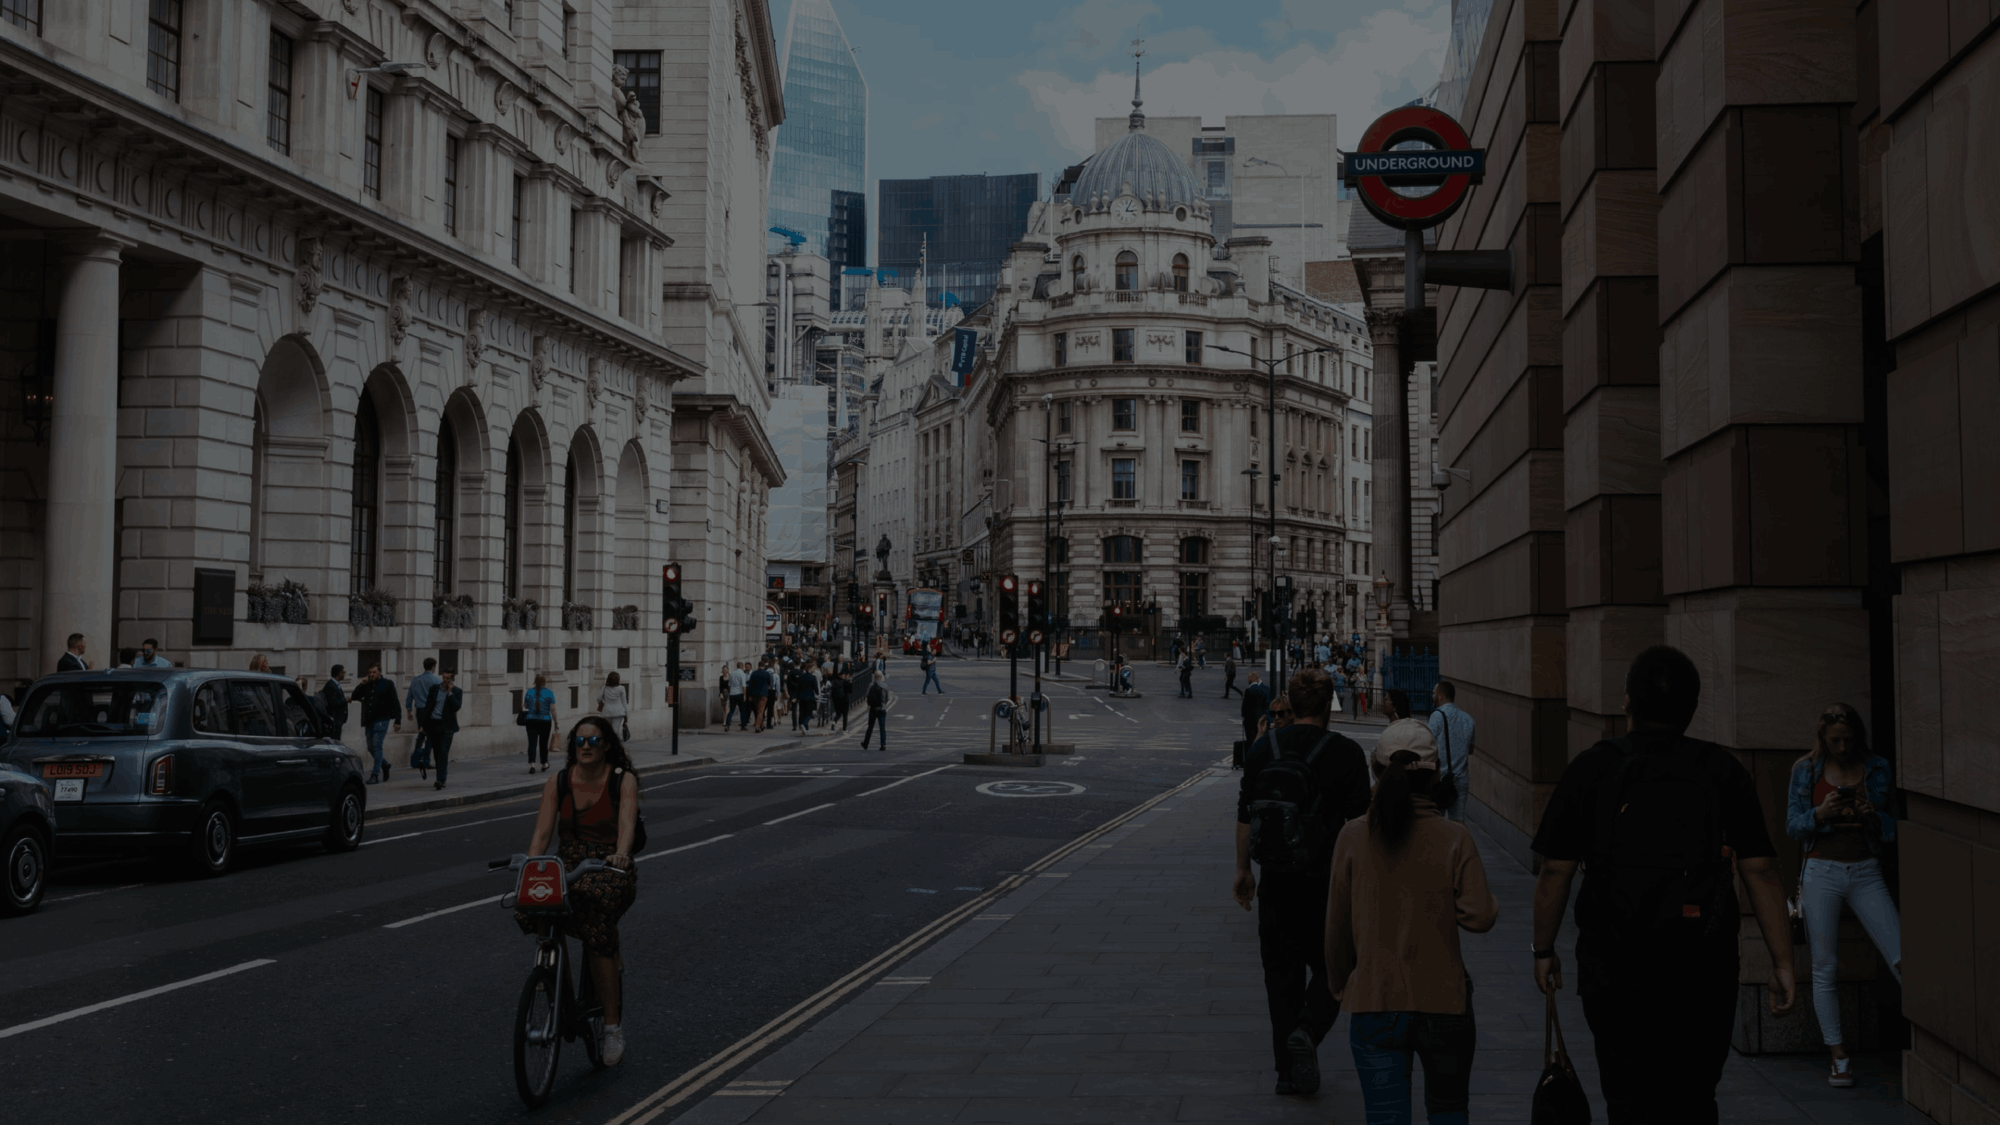
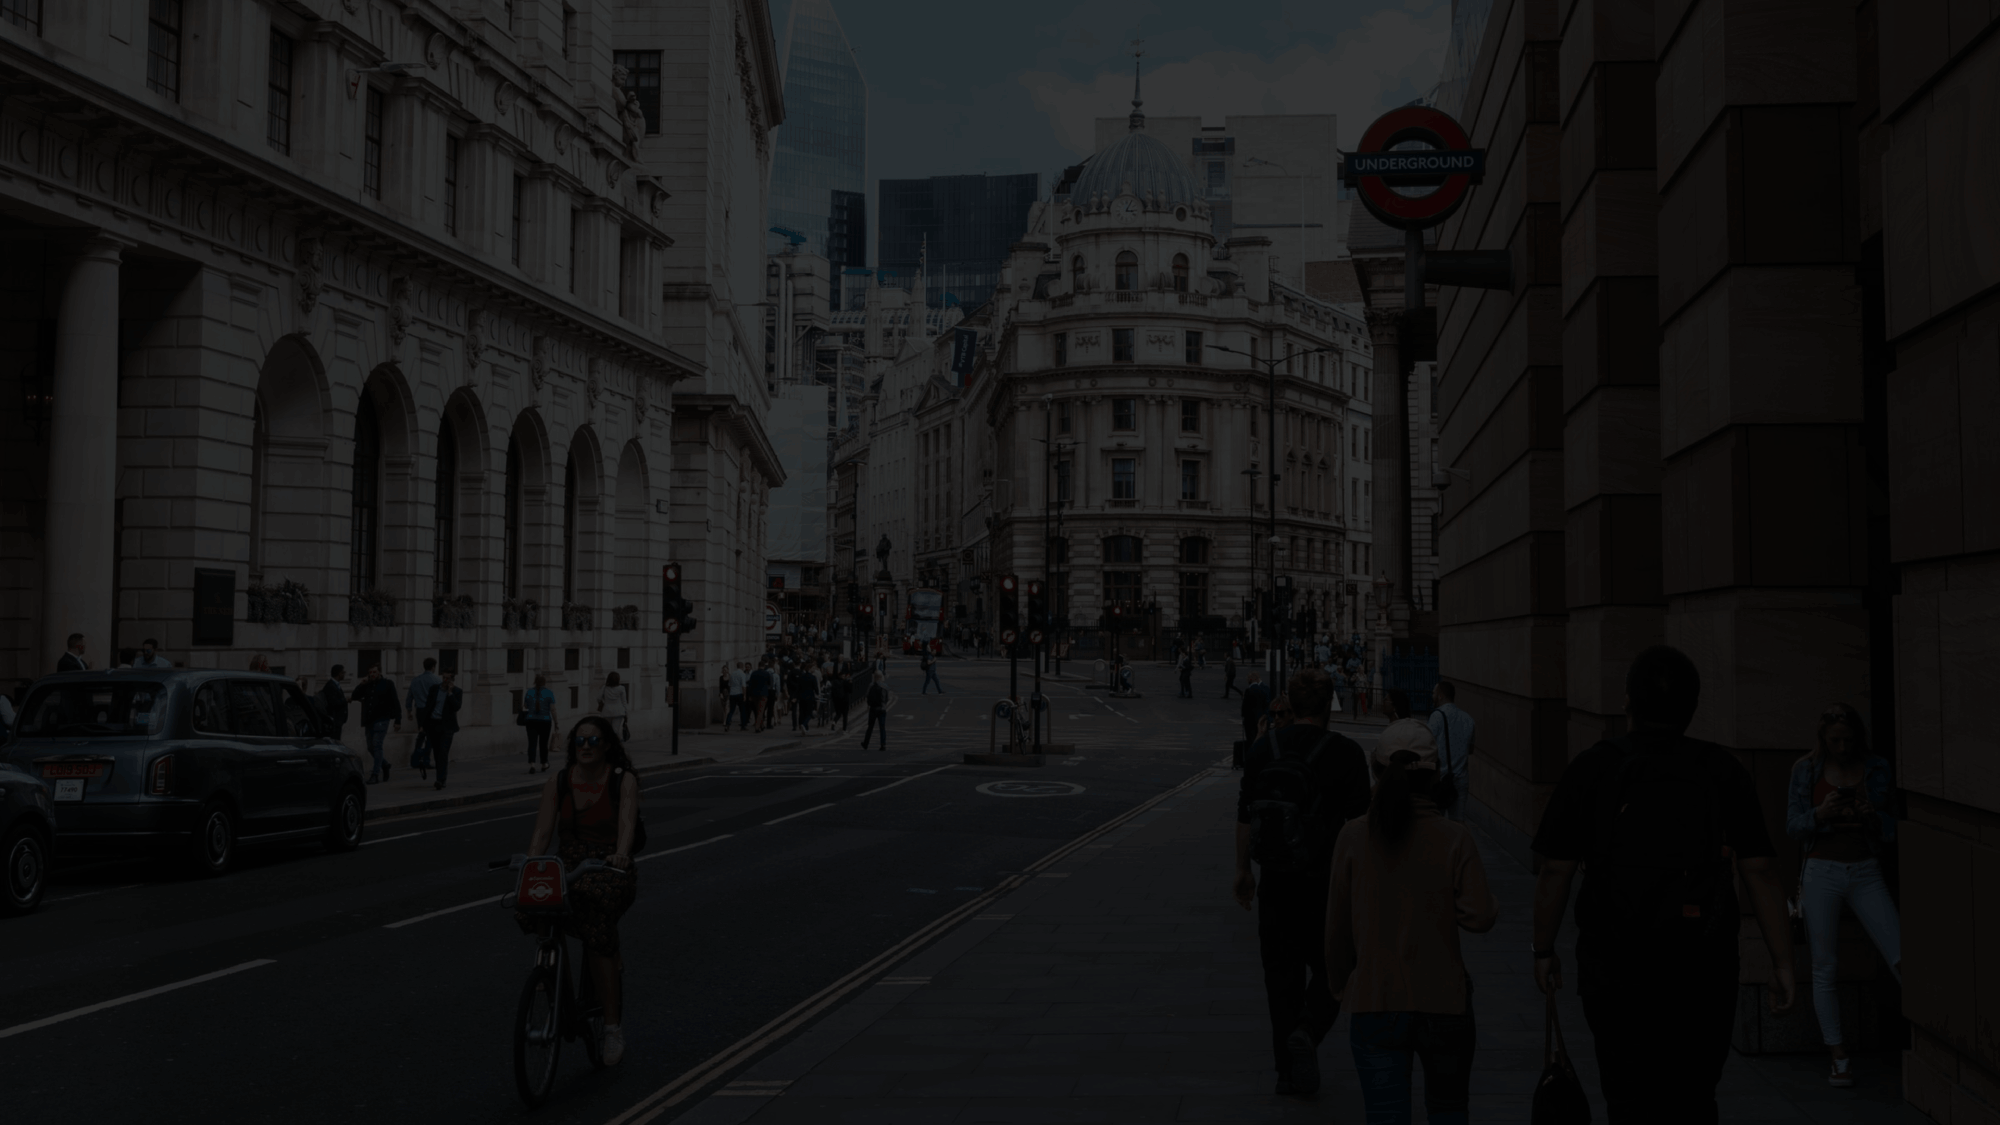
wip login

diff --git a/src/pages/Auth/Login/index.tsx b/src/pages/Auth/Login/index.tsx
@@ -1,0 +1,72 @@
+import { LockOutlined, Visibility, VisibilityOff } from '@material-ui/icons';
+import {
+  Button, IconButton, Input, InputAdornment, InputLabel, makeStyles, Typography,
+} from 'helpmycase-storybook/dist/components/External';
+import React, { useState } from 'react';
+import { NavLink } from 'react-router-dom';
+
+const useStyles = makeStyles({
+
+});
+
+const Login: React.FC = () => {
+  const classes = useStyles();
+  const [showPassword, setShowPassword] = useState<boolean>();
+
+  return (
+    <form>
+      <div className="textAlignCenter">
+        <Typography variant="h1" color="inherit">
+          Welcome back!
+        </Typography>
+        <Typography variant="subtitle1">
+          To login to your account,
+          please provide your username
+          (normally your email address) and your password.
+        </Typography>
+      </div>
+      <div className="fullWidth marginTop">
+        <InputLabel htmlFor="input-with-icon-adornment" className="marginBottomSmall">Username</InputLabel>
+        <Input
+          id="input-with-icon-adornment"
+          fullWidth
+          color="primary"
+        />
+      </div>
+      <div className="fullWidth marginTop">
+        <InputLabel htmlFor="input-with-icon-adornment" className="marginBottomSmall">Password</InputLabel>
+        <Input
+          id="input-with-icon-adornment"
+          fullWidth
+          color="primary"
+          type={showPassword ? 'text' : 'password'}
+          endAdornment={(
+            <InputAdornment position="end">
+              <IconButton
+                aria-label="toggle password visibility"
+                onClick={() => setShowPassword(!showPassword)}
+              >
+                {showPassword ? <Visibility /> : <VisibilityOff />}
+              </IconButton>
+            </InputAdornment>
+                    )}
+        />
+        <Button
+          variant="contained"
+          color="primary"
+          className="marginTop fullWidth"
+          startIcon={<LockOutlined />}
+        >
+          Login
+
+        </Button>
+      </div>
+      <div className="marginTop fullWidth textAlignCenter">
+        <Typography variant="subtitle1">Forgotten your password?</Typography>
+        <NavLink className="underline red" to="/">Reset your password</NavLink>
+      </div>
+    </form>
+  );
+};
+
+export default Login;

diff --git a/src/pages/Auth/index.tsx b/src/pages/Auth/index.tsx
@@ -1,0 +1,75 @@
+import clsx from 'clsx';
+import { makeStyles, Typography } from 'helpmycase-storybook/dist/components/External';
+import React from 'react';
+import BackgroundImage from '../../assets/images/login-background.png';
+import WelcomeBackgroundImage from '../../assets/images/homepage-main.jpg';
+import Logo from '../../components/atoms/Logo';
+import Login from './Login';
+
+const useStyles = makeStyles({
+  root: {
+    height: '100vh',
+    display: 'flex',
+    position: 'absolute',
+    left: 0,
+    top: 0,
+    width: '100%',
+    flexDirection: 'column',
+    justifyContent: 'center',
+    alignItems: 'center',
+    overflow: 'hidden',
+    zIndex: -1,
+    background: `url(${BackgroundImage})`,
+  },
+  card: {
+    width: '1200px',
+    height: '80vh',
+    backgroundColor: 'rgba(255,255,255,1)',
+    boxShadow: '0 0 20px 2px #000',
+    '& > div': {
+      width: '50%',
+      padding: '32px',
+    },
+  },
+  welcome: {
+    background: `url(${WelcomeBackgroundImage}) center center`,
+    backgroundSize: 'cover',
+    color: 'white',
+  },
+  form: {
+    color: 'black',
+    width: '50%',
+    borderRadius: '5px',
+    '& > form': {
+      width: '400px',
+    },
+  },
+});
+
+const Auth: React.FC = () => {
+  const styles = useStyles();
+  return (
+    <div className={styles.root}>
+      <div className={clsx(styles.card, 'flex row spaceBetween')}>
+        <div className={styles.welcome}>
+          <div className="flex column center alignCenter fullHeight textAlignCenter">
+            <Logo />
+            <Typography variant="h4" className="marginTopMedium">
+              Helping you to find trusted solicitors tailored to your legal case.
+            </Typography>
+            <Typography variant="subtitle1" className="marginTopMedium">
+              Finding a trusted solicitor to handle your case is usually a big headache.
+              HelpMyCase streamlines the process of finding the perfect
+              solicitor tailored to your case for free!
+            </Typography>
+          </div>
+        </div>
+        <div className={clsx(styles.form, 'flex column center')}>
+          <Login />
+        </div>
+      </div>
+    </div>
+  );
+};
+
+export default Auth;

diff --git a/src/App.css b/src/App.css
@@ -1,0 +1,116 @@
+
+/* Alignment  */
+.fullWidth {
+    width: 100%;
+}
+.fullHeight {
+    height: 100%;
+}
+.textAlignCenter {
+    text-align: center;
+}
+.flex {
+    display: flex;
+}
+.flex.column {
+    flex-direction: column;
+}
+.flex.row {
+    flex-direction: row;
+}
+.flex.spaceBetween {
+    justify-content: space-between;
+}
+.flex.spaceEvenly {
+    justify-content: space-evenly;
+}
+.flex.center {
+    justify-content: center;
+    align-items: center;
+}
+
+/* Margins  */
+.marginTop {
+    margin-top: 32px !important
+}
+.marginBottom {
+    margin-bottom: 32px !important
+}
+.marginLeft {
+    margin-left: 32px !important
+}
+.marginRight {
+    margin-right: 32px !important
+}
+.marginTopMedium {
+    margin-top: 16px !important
+}
+.marginBottomMedium {
+    margin-bottom: 16px !important
+}
+.marginLeftMedium {
+    margin-left: 16px !important
+}
+.marginRightMedium {
+    margin-right: 16px !important
+}
+.marginTopSmall {
+    margin-top: 8px !important
+}
+.marginBottomSmall {
+    margin-bottom: 8px !important
+}
+.marginLeftSmall {
+    margin-left: 8px !important
+}
+.marginRightSmall {
+    margin-right: 8px !important
+}
+
+/* Paddings  */
+.paddingTop {
+    padding-top: 32px !important
+}
+.paddingBottom {
+    padding-bottom: 32px !important
+}
+.paddingLeft {
+    padding-left: 32px !important
+}
+.paddingRight {
+    padding-right: 32px !important
+}
+.paddingTopMedium {
+    padding-top: 16px !important
+}
+.paddingBottomMedium {
+    padding-bottom: 16px !important
+}
+.paddingLeftMedium {
+    padding-left: 16px !important
+}
+.paddingRightMedium {
+    padding-right: 16px !important
+}
+.paddingTopSmall {
+    padding-top: 8px !important
+}
+.paddingBottomSmall {
+    padding-bottom: 8px !important
+}
+.paddingLeftSmall {
+    padding-left: 8px !important
+}
+.paddingRightSmall {
+    padding-right: 8px !important
+}
+
+/* Text Transform */
+
+/* Colors */
+.red {
+    color: #981e25
+}
+.black {
+    color: #121212
+}

diff --git a/src/App.tsx b/src/App.tsx
@@ -2,9 +2,7 @@ import { Container, makeStyles } from 'helpmycase-storybook/dist/components/Exte
 import React from 'react';
 import { Route, Switch } from 'react-router-dom';
 import './App.css';
-import Logo from './components/atoms/Logo';
-import Login from './components/pages/Login';
-import Quote from './components/pages/Quote';
+import Auth from './pages/Auth';
 
 const useStyles = makeStyles(() => ({
   root: {
@@ -18,10 +16,9 @@ const App: React.FC = () => {
 
   return (
     <Container maxWidth="lg" className={styles.root}>
-      <Logo />
       <Switch>
         <Route path="/login">
-          <Login />
+          <Auth />
         </Route>
         {/* <Quote /> */}
       </Switch>

diff --git a/src/utils/env.variables.ts b/src/utils/env.variables.ts
@@ -1,0 +1,22 @@
+interface CognitoConfig {
+    poolId: string;
+    clientId: string;
+    storage: Storage;
+}
+
+interface EnvironmentConfig {
+    REACT_APP_API_URL: string;
+    REACT_APP_COGNITO: CognitoConfig;
+}
+
+// Default is development
+const environmentVars: EnvironmentConfig = {
+  REACT_APP_API_URL: 'localhost:3000/',
+  REACT_APP_COGNITO: {
+    poolId: 'eu-west-1_Bo5l53wSG',
+    clientId: 'jfqsq1211sofcl9nv9aalrlq8',
+    storage: localStorage,
+  },
+};
+
+export default environmentVars;

diff --git a/src/pages/Dashboard/index.tsx b/src/pages/Dashboard/index.tsx
@@ -2,8 +2,8 @@ import { Auth, Hub } from 'aws-amplify';
 import Button from 'helpmycase-storybook/dist/components/Button';
 import React, { useEffect } from 'react';
 import { Route } from 'react-router-dom';
-import routes from '../../../utils/routes/routes';
-import Navigation from '../../templates/Navigation';
+import routes from '../../utils/routes/routes';
+import Navigation from '../../components/templates/Navigation';
 
 const Dashboard: React.FC = () => {
   const x = 2;

diff --git a/src/pages/Quote/index.tsx b/src/pages/Quote/index.tsx
@@ -4,7 +4,7 @@ import {
 } from 'helpmycase-storybook/dist/components/External';
 import React from 'react';
 import { Route } from 'react-router-dom';
-import routes from '../../../utils/routes/routes';
+import routes from '../../utils/routes/routes';
 import MainCard from './MainCard';
 import Section from './Section';
 import useQuote from './useQuote';

diff --git a/src/utils/awsExports.ts b/src/utils/awsExports.ts
@@ -1,0 +1,11 @@
+import environmentVars from './env.variables';
+
+const awsExports = {
+  Auth: {
+    userPoolId: environmentVars.REACT_APP_COGNITO.poolId,
+    userPoolWebClientId: environmentVars.REACT_APP_COGNITO.clientId,
+    storage: environmentVars.REACT_APP_COGNITO.storage,
+  },
+};
+
+export default awsExports;

diff --git a/src/index.tsx b/src/index.tsx
@@ -16,7 +16,7 @@ import amplifyConfiguration from './awsexports';
 Amplify.configure(amplifyConfiguration);
 
 const client = new ApolloClient({
-  uri: 'https://48p1r2roz4.sse.codesandbox.io',
+  uri: 'localhost:8080/graphql',
   cache: new InMemoryCache(),
 });
 
